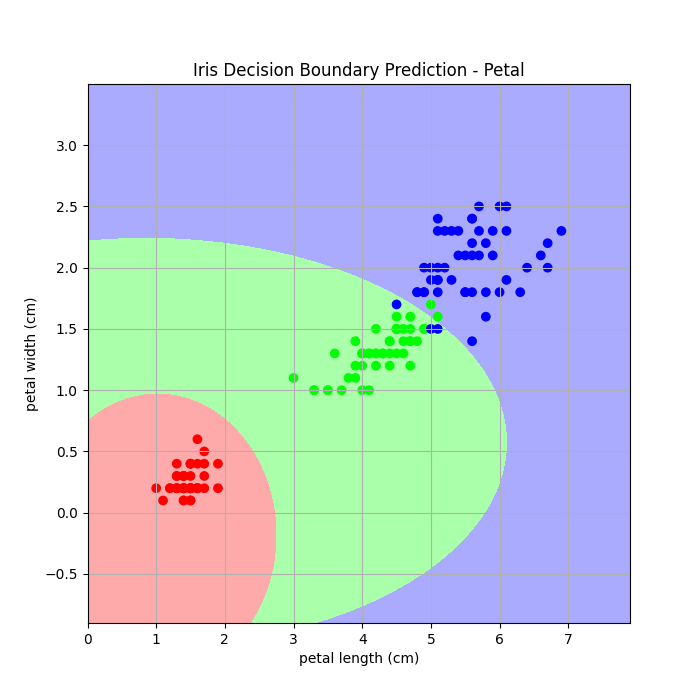
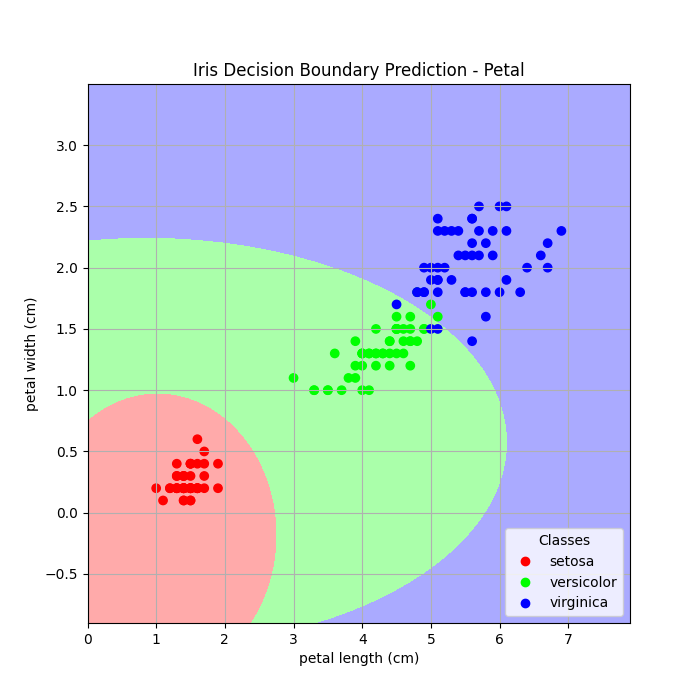
random forest

Changed region(s): [[0.72, 0.75, 0.9, 0.9]]

diff --git a/utils.py b/utils.py
@@ -40,7 +40,6 @@ def scatter_plot(X, y, title, x_label, y_label, class_names, savepath):
     Parameters:
         X: x-axis datapoints
         y: y-axis datapoints
-        features: which 2 features to plot against
         title: tite of plot
         x_label: label for x axis
         y_label: label for y axis
@@ -58,7 +57,7 @@ def scatter_plot(X, y, title, x_label, y_label, class_names, savepath):
     ax = plt.axes()
     ax.set_facecolor("lavender")
 
-    # find features correspaonding to class labels
+    # find features corresponding to class labels
     class_0, class_1 = X[y == 0], X[y == 1]
 
     # scatter plots of class features against themselves
@@ -84,11 +83,10 @@ def visualize_decision_boundary(X, y, title, x_label, y_label, class_names, reso
    Parameters:
         X: features
         y: targets
-        features: which 2 features to plot against
-        epochs: number of epochs logistic regression model was trained on
-        model: new model to train on
+        title: title for our plot
         x_label: x label of our plot
         y_label: y label of our plot
+        class_names: names of our classes
         resolution: resolution of grid for plotting the decision boundary
         savepath: path to save our decision plot boundary to
 
@@ -162,6 +160,7 @@ def iris_visualize(X, y, feature_names, class_names):
     
     Parameters:
         X: features
+        y: labels
         feature_names: name of our feaures
         class_names: labels
     
@@ -208,7 +207,7 @@ def iris_visualize(X, y, feature_names, class_names):
     return None
 
 
-def visualize_decision_boundaries_iris(X, y, resolution, sepal_or_petal):
+def visualize_decision_boundaries_iris(X, y, class_names, resolution, sepal_or_petal):
 
     """
     Description:
@@ -216,9 +215,9 @@ def visualize_decision_boundaries_iris(X, y, resolution, sepal_or_petal):
         This is to visualize our results for all possible datapoints on a given grid
     
     Parameters:
-        model: our trained model
-        X_train_reduced: 2D features selected from original X_train
-        y_train: original y_train
+        X: features
+        y: labels
+        class_names: names of our classes
         resolution: resolution of grid for plotting the decision boundary
         sepal_or_petal: are these the sepal features or the petals?
     
@@ -256,7 +255,8 @@ def visualize_decision_boundaries_iris(X, y, resolution, sepal_or_petal):
     plt.pcolormesh(xx, yy, Z, cmap = cmap_background)
 
     # scatter the two chosen features across each other and use y labels as colors based on the color map above
-    plt.scatter(X[:, 0], X[:, 1], c = y, cmap = cmap_bold)
+    sc = plt.scatter(X[:, 0], X[:, 1], c = y, cmap = cmap_bold)
+    plt.legend(sc.legend_elements()[0], class_names, title = 'Classes', loc = 'lower right')
     plt.title(f'Iris Decision Boundary Prediction - {sepal_or_petal}')
     plt.xlabel(f'{sepal_or_petal.lower()} length (cm)')
     plt.xlim(xx.min(), xx.max())

diff --git a/main.py b/main.py
@@ -120,14 +120,12 @@ def main():
 
     print('Plotting Iris Sepals...')
     X_sepals = X[:, [0, 1]]
-    visualize_decision_boundaries_iris(X = X_sepals, y = y, resolution = resolution, sepal_or_petal = 'Sepal')
+    visualize_decision_boundaries_iris(X = X_sepals, y = y, class_names = class_names, resolution = resolution, sepal_or_petal = 'Sepal')
     # Iris Petals
     print('Plotting Iris Petals...')
     X_petals = X[:, [2, 3]]
-    visualize_decision_boundaries_iris(X = X_petals, y = y, resolution = resolution, sepal_or_petal = 'Petal')
+    visualize_decision_boundaries_iris(X = X_petals, y = y, class_names = class_names, resolution = resolution, sepal_or_petal = 'Petal')
 
-
-    
     print('Please refer to plots/iris directory to view decision boundaries.')
     print('--------------------------------------------------------------------------------------------------------------\n')
     #######################################################################################################################################
